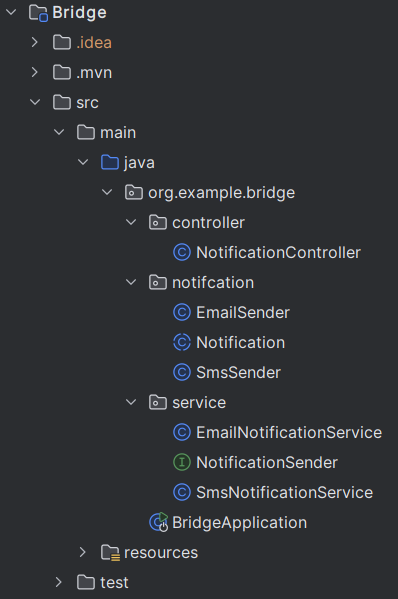
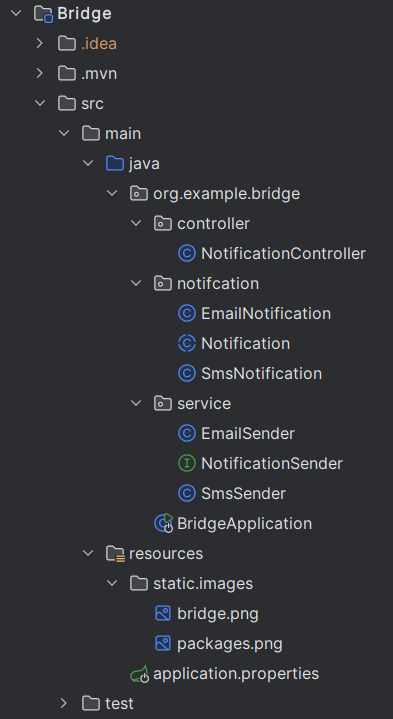
eng description

diff --git a/structural/Bridge/README.md b/structural/Bridge/README.md
@@ -1,6 +1,4 @@
 ## ENG
-
-
 # Example of the Bridge Pattern in Spring Boot
 
 This project demonstrates the implementation of the **Bridge Pattern** in a Spring Boot application. The Bridge Pattern allows separating abstraction from implementation, making them independent and more flexible.
@@ -87,32 +85,31 @@ public class SmsSender implements NotificationSender {
 }
 ```
 
-
 ### Example Classes
-
 - `EmailSender` — sends notifications via email.
 - `SmsSender` — sends notifications via SMS.
 - `EmailNotification` uses `EmailSender` to send notifications.
 - `SmsNotification` uses `SmsSender` to send notifications.
 
 ### Available Endpoints
-
 - `/sendEmail?message=Hello` — sends a notification via Email.
 - `/sendSms?message=Hello` — sends a notification via SMS.
 
 ### How to Run the Application
-
 1. Clone the repository.
 2. Run the application with the command:
     ```bash
     mvn spring-boot:run
     ```
 3. Use the above endpoints to send notifications.
-
+4. 
 ## Advantages of Using the Bridge Pattern
 
 - **Flexibility** — You can add new ways to send notifications or new types of notifications without changing existing code.
 - **Separation of Concerns** — The abstraction (notifications) is separated from the concrete implementation (sending mechanisms), simplifying the maintenance and extension of the application.
+
+---
+![Общая схема паттерна Bridge](src/main/resources/static/images/bridge.png)
 
 ---
 ![Файловая структура паттерна Bridge](src/main/resources/static/images/packages.png)
